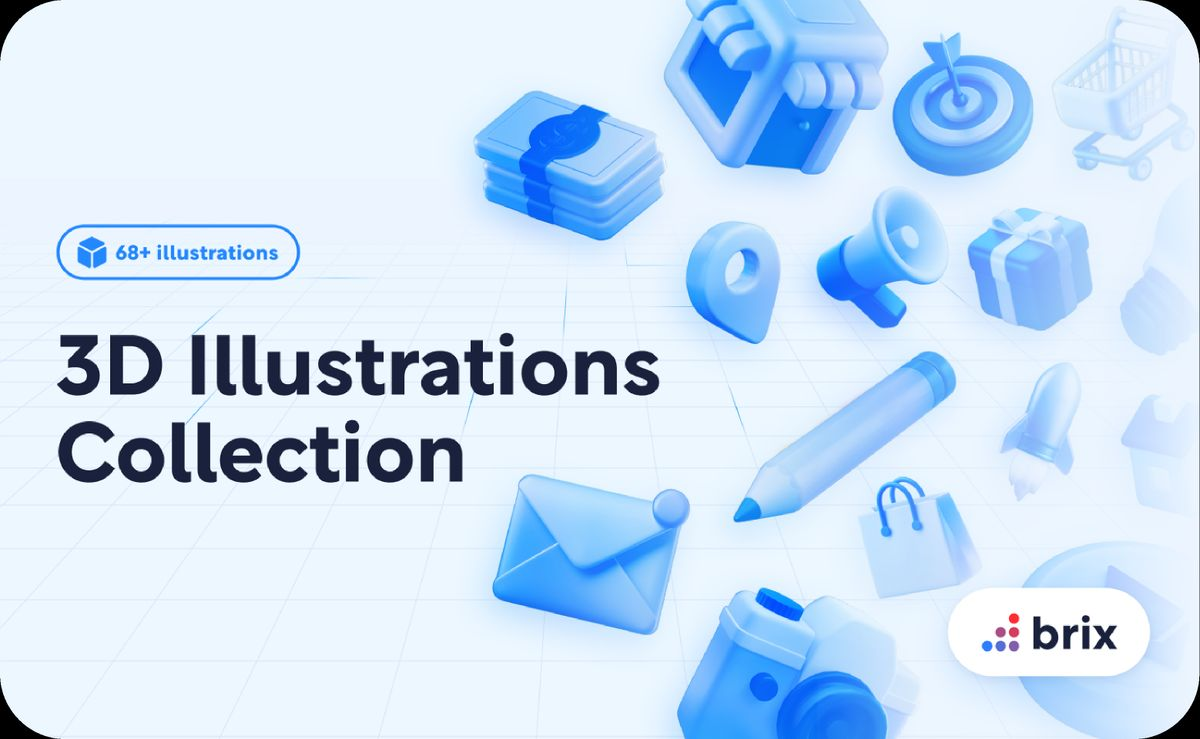
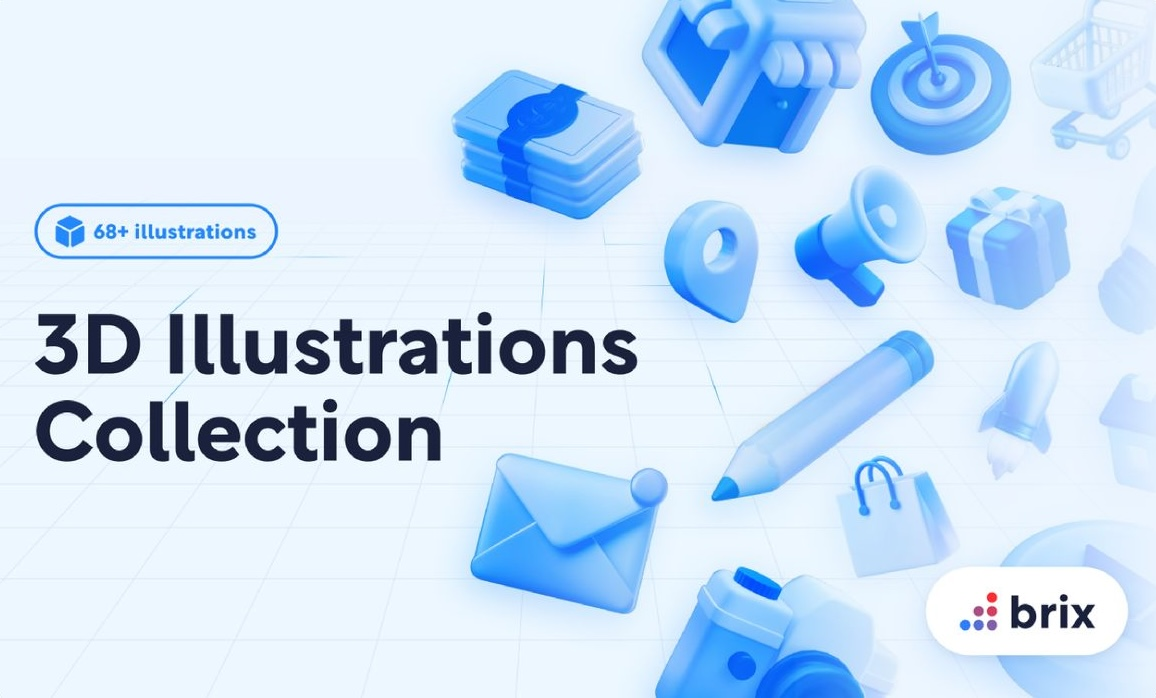
fix: 🐛  opengraph preview

diff --git a/src/app/layout.tsx b/src/app/layout.tsx
@@ -65,7 +65,7 @@ export const metadata: Metadata = {
     description,
     images: [
       {
-        url: "/preview.png",
+        url: "/preview.jpeg",
         alt,
       },
     ],
